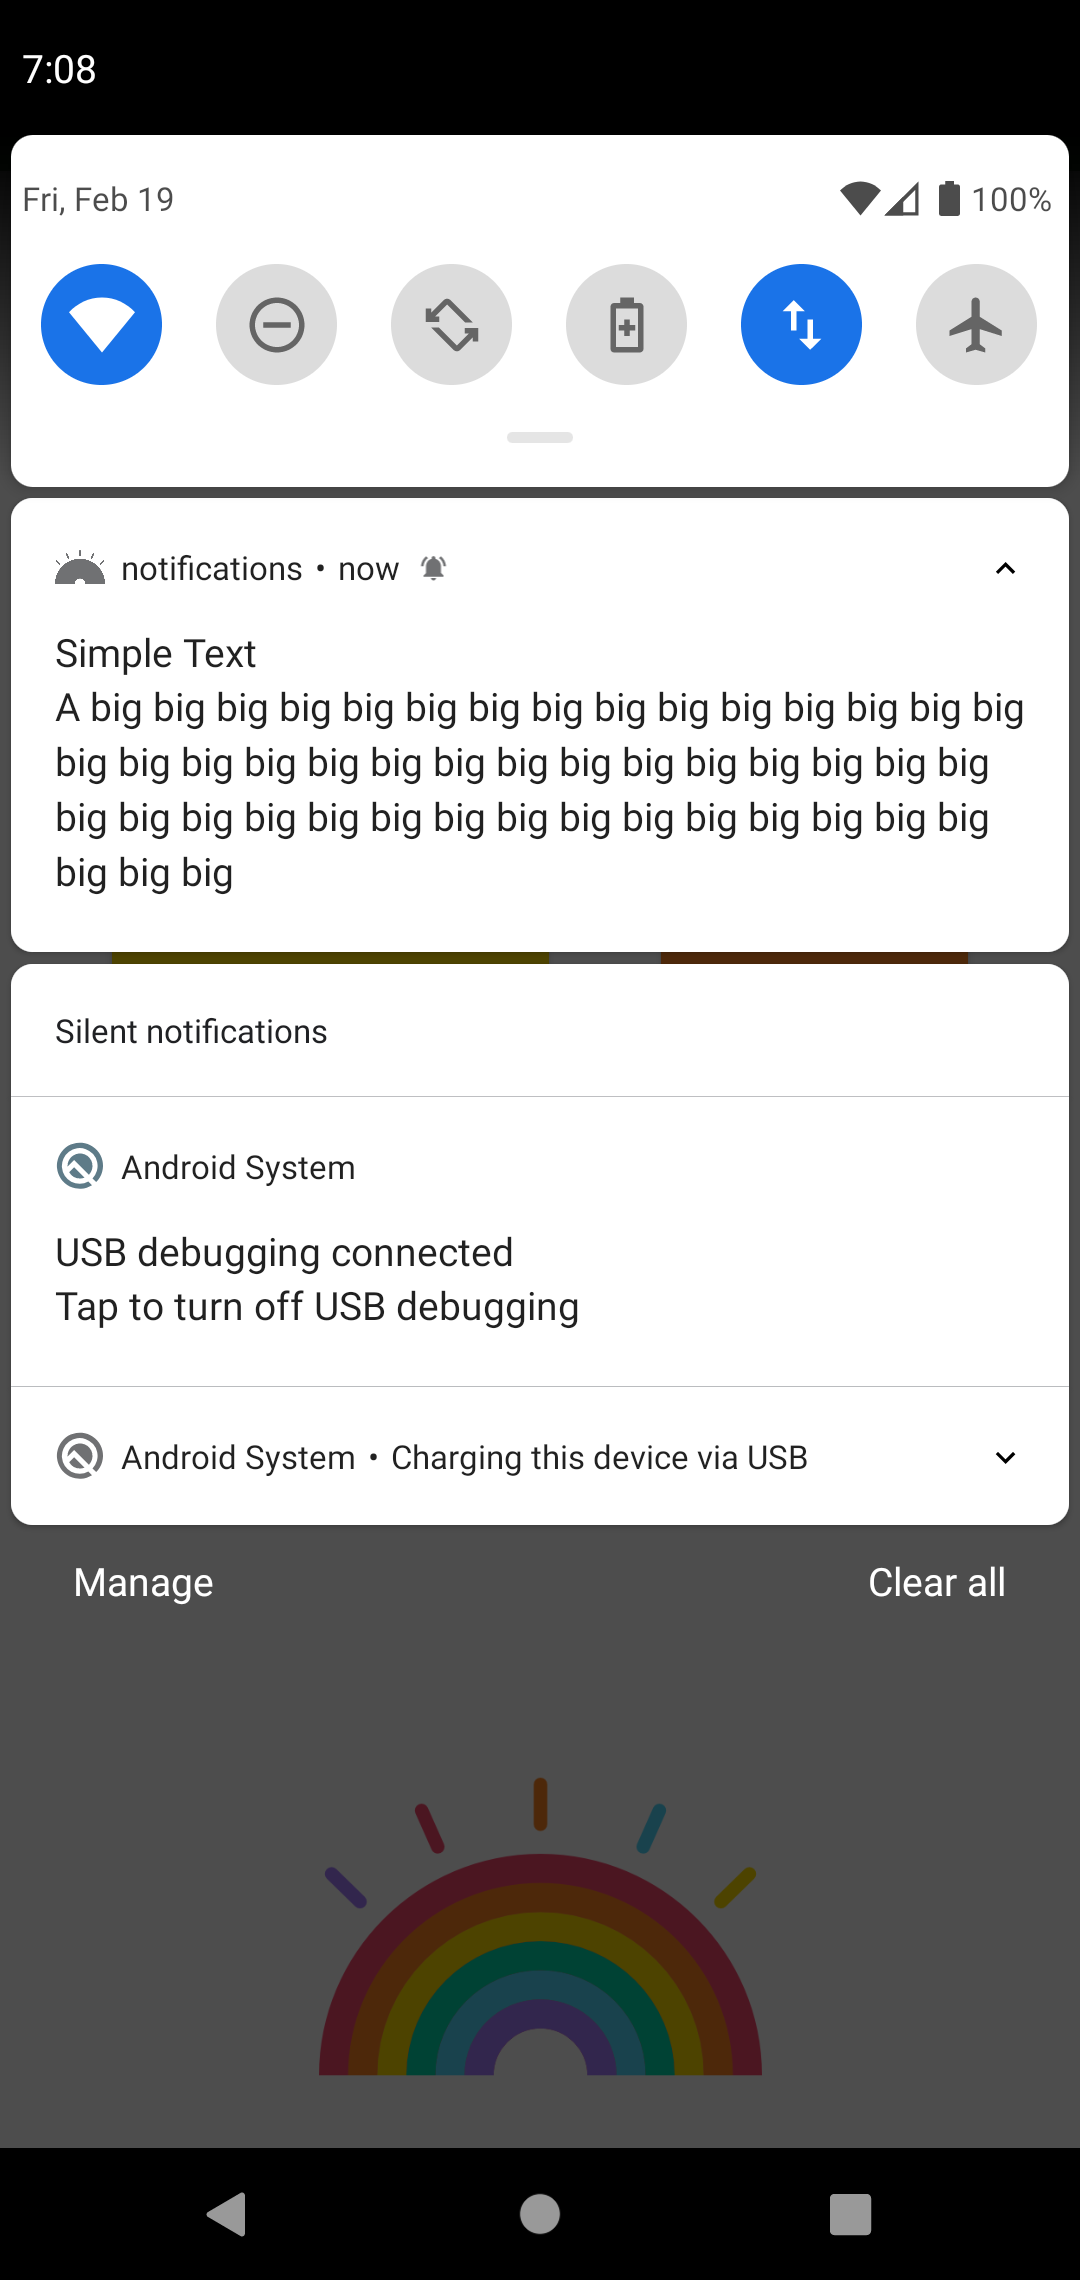
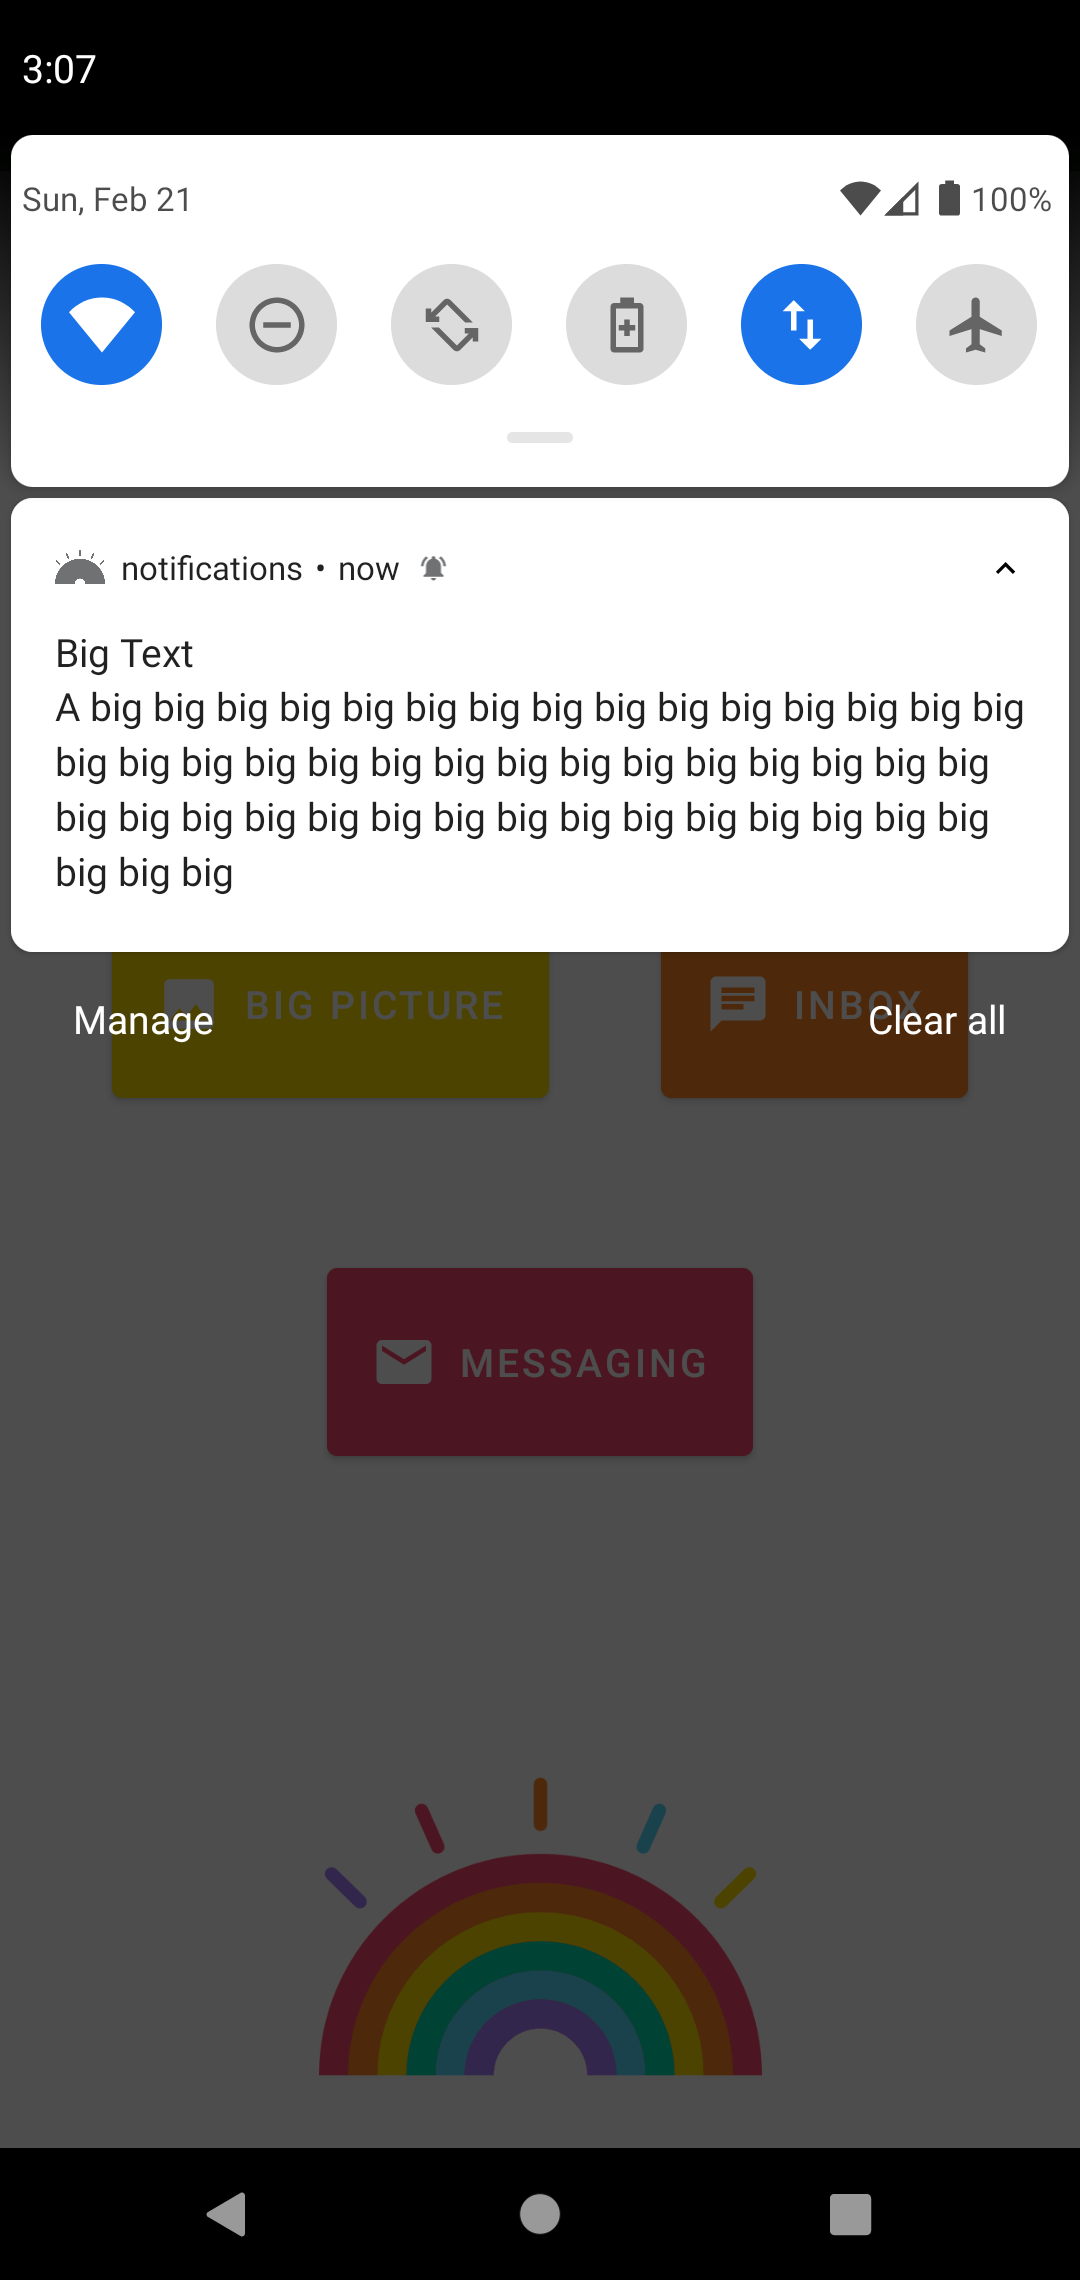
add new notifications and screenshots

Changed region(s): [[0.0, 0.4048, 1.0, 0.7162], [0.0611, 0.2803, 0.2444, 0.3114], [0.0306, 0.0623, 0.1528, 0.0934]]

diff --git a/app/src/main/java/com/jbc7ag/notifications/ui/main/MainFragment.kt b/app/src/main/java/com/jbc7ag/notifications/ui/main/MainFragment.kt
@@ -1,8 +1,6 @@
 package com.jbc7ag.notifications.ui.main
 
-import android.app.NotificationChannel
-import android.app.NotificationManager
-import android.app.PendingIntent
+import android.app.*
 import android.content.Context
 import android.content.Intent
 import android.graphics.BitmapFactory
@@ -50,22 +48,22 @@ class MainFragment : Fragment() {
 
         viewModel.showBigTextNotification.observe(viewLifecycleOwner, Observer { show ->
             if(show)
-            notificationManager.sendBigTextNotification(context?.getText(R.string.simple_text_description).toString(), context!!)
+            notificationManager.sendBigTextNotification(context?.getText(R.string.big_text_description).toString(), context!!)
         })
 
         viewModel.showBigPictureNotification.observe(viewLifecycleOwner, Observer { show ->
             if(show)
-                notificationManager.sendBigTextNotification(context?.getText(R.string.simple_text_description).toString(), context!!)
+                notificationManager.sendBigPictureNotification(context?.getText(R.string.big_picture_description).toString(), context!!)
         })
 
         viewModel.showMessagingNotification.observe(viewLifecycleOwner, Observer { show ->
             if(show)
-                notificationManager.sendBigTextNotification(context?.getText(R.string.simple_text_description).toString(), context!!)
+                notificationManager.sendMessagingNotification(context?.getText(R.string.messaging_description).toString(), context!!)
         })
 
         viewModel.showInboxNotification.observe(viewLifecycleOwner, Observer { show ->
             if(show)
-                notificationManager.sendBigTextNotification(context?.getText(R.string.simple_text_description).toString(), context!!)
+                notificationManager.sendInboxtNotification(context?.getText(R.string.inbox_description).toString(), context!!)
         })
 
 
@@ -131,10 +129,105 @@ class MainFragment : Fragment() {
                         CHANNELID)
                  .setStyle(bigTextStyle)
                 .setSmallIcon(R.drawable.rainbow)
-                .setContentTitle(applicationContext.getString(R.string.simple_text))
+                .setContentTitle(applicationContext.getString(R.string.big_text))
                 .setContentText(messageBody)
                 .setContentIntent(contentPendingIntent)
                 .setPriority(NotificationCompat.PRIORITY_HIGH)
+        notify(NOTIFICATIONID, builder.build())
+    }
+
+    // BIG PICTURE NOTIFICATION
+    private fun NotificationManager.sendBigPictureNotification(messageBody: String, applicationContext: Context) {
+
+        cancelAll()
+        val contentIntent = Intent(applicationContext, MainActivity::class.java)
+        val contentPendingIntent  = PendingIntent.getActivity(applicationContext, NOTIFICATIONID, contentIntent, PendingIntent.FLAG_UPDATE_CURRENT)
+
+        // create the bitmap
+        val rainbowImage = BitmapFactory.decodeResource(
+            applicationContext.resources,
+            R.drawable.rainbow
+        )
+
+        val bigPicStyle = NotificationCompat.BigPictureStyle()
+            .bigPicture(rainbowImage)
+            .bigLargeIcon(null)
+
+        // Build the notification
+        val builder = NotificationCompat
+            .Builder(applicationContext,
+                CHANNELID)
+            .setStyle(bigPicStyle)
+            .setSmallIcon(R.drawable.rainbow)
+            .setContentTitle(applicationContext.getString(R.string.big_picture))
+            .setContentText(messageBody)
+            .setContentIntent(contentPendingIntent)
+            .setPriority(NotificationCompat.PRIORITY_HIGH)
+        notify(NOTIFICATIONID, builder.build())
+    }
+
+    // INBOX NOTIFICATION
+    private fun NotificationManager.sendInboxtNotification(messageBody: String, applicationContext: Context) {
+
+        cancelAll()
+        val contentIntent = Intent(applicationContext, MainActivity::class.java)
+        val contentPendingIntent  = PendingIntent.getActivity(applicationContext, NOTIFICATIONID, contentIntent, PendingIntent.FLAG_UPDATE_CURRENT)
+
+        val inboxStyle = NotificationCompat.InboxStyle()
+            .addLine("Thanks for subscribe")
+            .addLine("Here the news for today")
+            .addLine("We need you to pay ... ")
+            .setBigContentTitle("You got 20 Emails")
+            .setSummaryText("You got 17 more emails")
+
+        // create the bitmap
+        val rainbowImage = BitmapFactory.decodeResource(
+            applicationContext.resources,
+            R.drawable.rainbow
+        )
+
+
+        // Build the notification
+        val builder = NotificationCompat
+            .Builder(applicationContext,
+                CHANNELID)
+            .setStyle(inboxStyle)
+            .setSmallIcon(R.drawable.rainbow)
+            .setLargeIcon(rainbowImage)
+            .setContentTitle(applicationContext.getString(R.string.inbox))
+            .setContentText(messageBody)
+            .setContentIntent(contentPendingIntent)
+            .setPriority(NotificationCompat.PRIORITY_HIGH)
+        notify(NOTIFICATIONID, builder.build())
+    }
+
+    // MESSAGING NOTIFICATION
+    private fun NotificationManager.sendMessagingNotification(messageBody: String, applicationContext: Context) {
+
+        cancelAll()
+        val contentIntent = Intent(applicationContext, MainActivity::class.java)
+        val contentPendingIntent  = PendingIntent.getActivity(applicationContext, NOTIFICATIONID, contentIntent, PendingIntent.FLAG_UPDATE_CURRENT)
+
+        val messagingStyle = NotificationCompat.MessagingStyle("Jessica")
+            .setConversationTitle(applicationContext.getString(R.string.messaging))
+            .addMessage("Hi! I'm hungry!",System.currentTimeMillis()-60000,"Cat")
+            .addMessage("Where are you?",System.currentTimeMillis()-60000,"Cat")
+            .addMessage("Lets go play",System.currentTimeMillis()-30000,"Dog")
+            .addMessage("Miss you",System.currentTimeMillis(),"Dog")
+            .setGroupConversation(true)
+
+
+
+        // Build the notification
+        val builder = NotificationCompat
+            .Builder(applicationContext,
+                CHANNELID)
+            .setStyle(messagingStyle)
+            .setSmallIcon(R.drawable.rainbow)
+            .setContentTitle(applicationContext.getString(R.string.messaging))
+            .setContentText(messageBody)
+            .setContentIntent(contentPendingIntent)
+            .setPriority(NotificationCompat.PRIORITY_HIGH)
         notify(NOTIFICATIONID, builder.build())
     }
 
